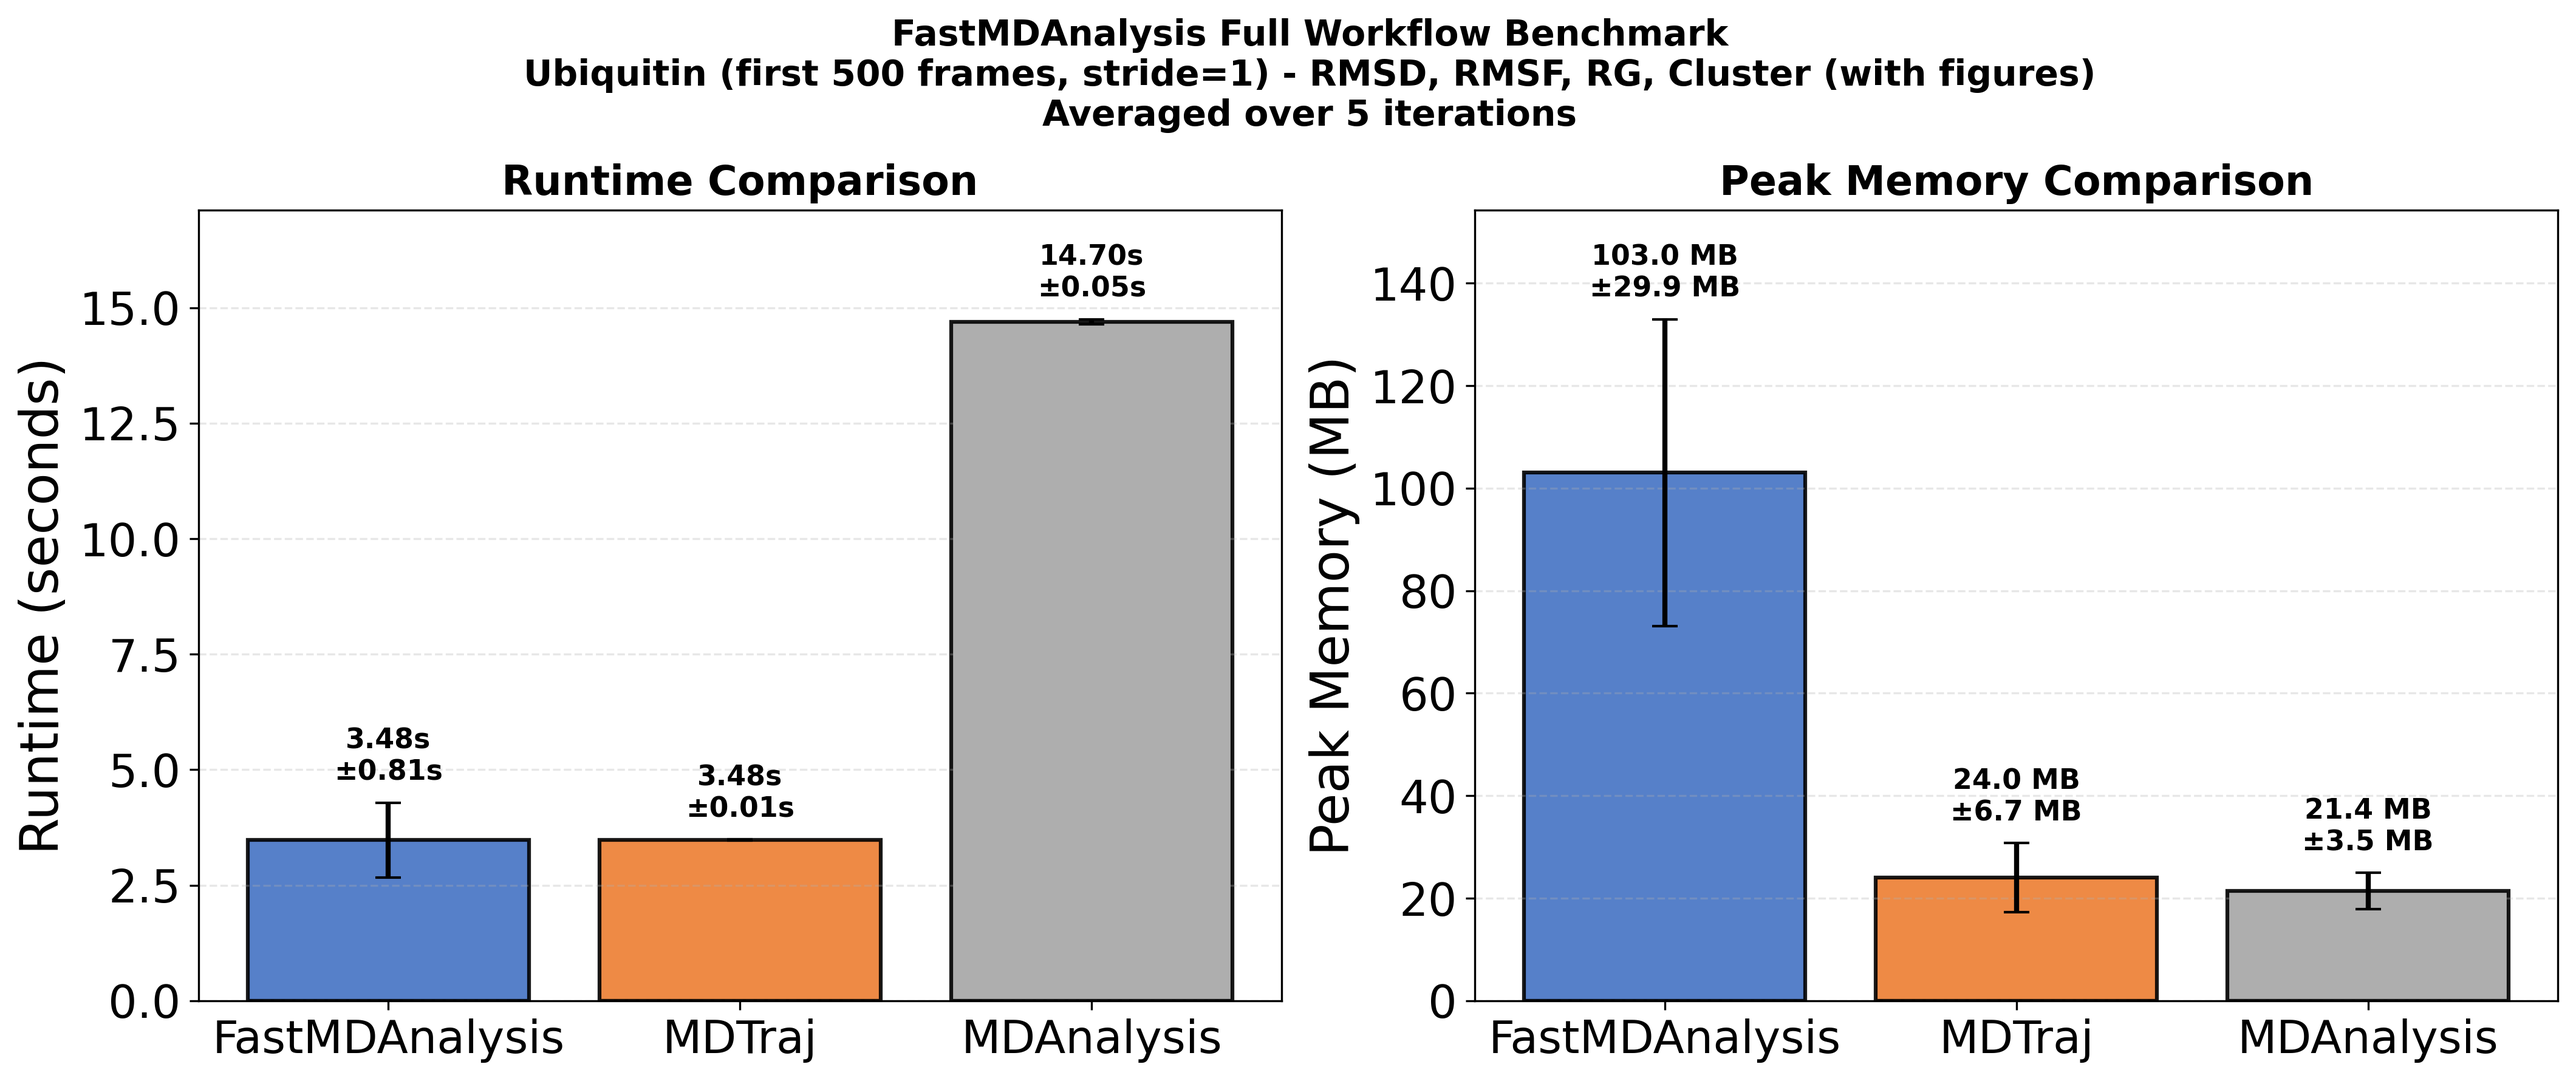
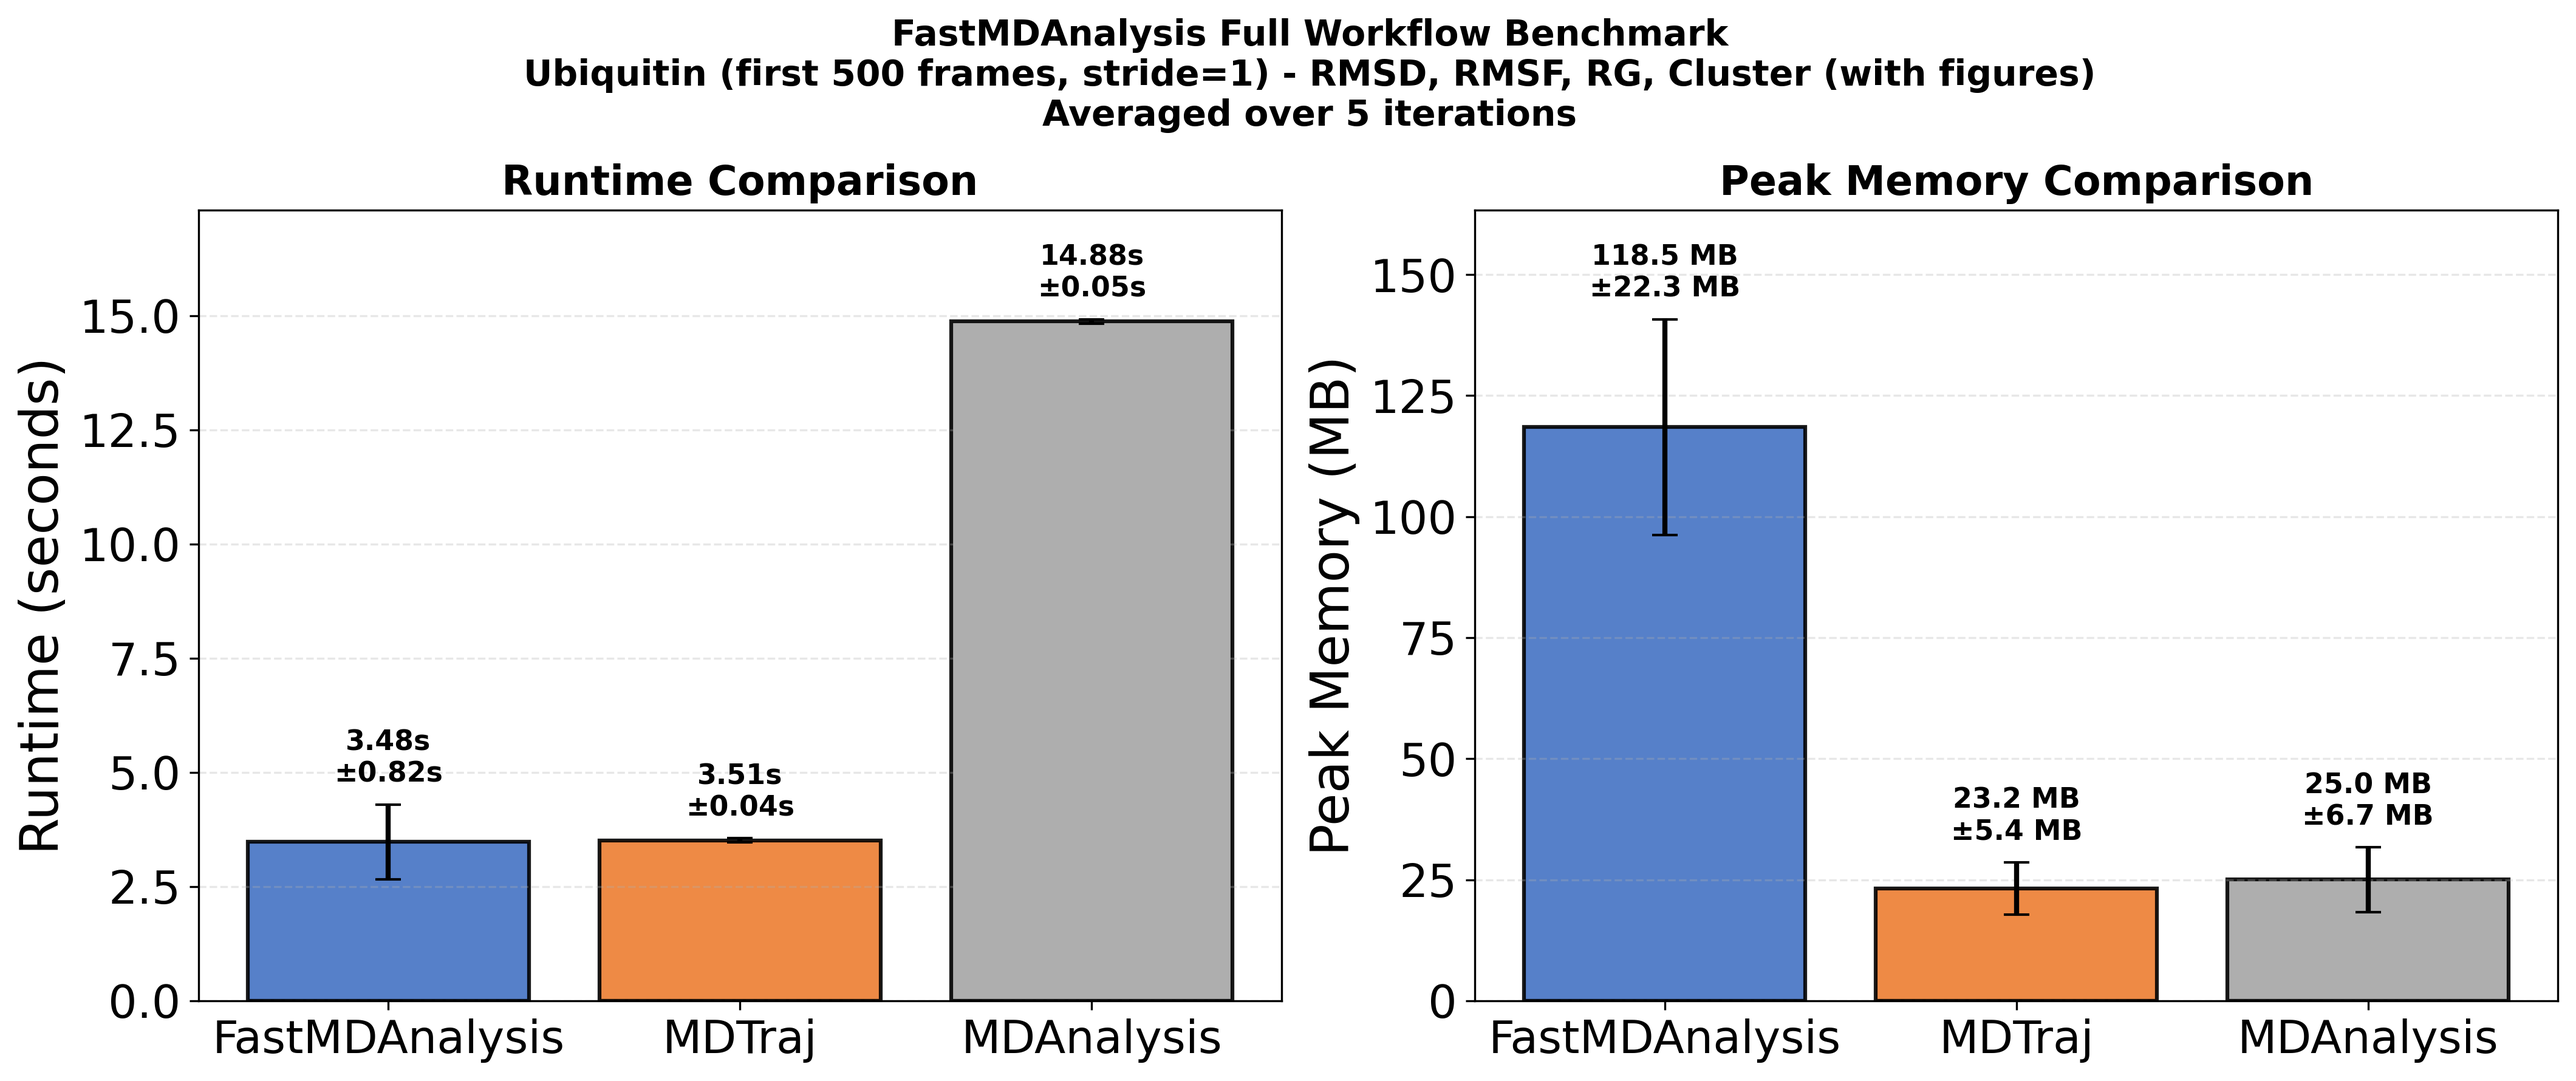
Updated Font Size

diff --git a/benchmark_full_workflow.py b/benchmark_full_workflow.py
@@ -192,8 +192,13 @@ def generate_loc_slide(loc_data):
 
     fig, ax = plt.subplots(figsize=(8, 6))
     bars = ax.bar(names, loc_values, color=colors, edgecolor='black', linewidth=1.5)
-    ax.set_ylabel('Effective LOC (non-blank/non-comment)', fontsize=14)
-    ax.set_title('Lines of Code Required Per Workflow', fontsize=16, fontweight='bold')
+    label_font = 14 * AXIS_FONT_SCALE
+    title_font = 16
+    tick_font = 12 * AXIS_FONT_SCALE
+
+    ax.set_ylabel('Effective LOC (non-blank/non-comment)', fontsize=label_font)
+    ax.set_title('Lines of Code Required Per Workflow', fontsize=title_font, fontweight='bold')
+    ax.tick_params(axis='both', which='major', labelsize=tick_font)
     ax.grid(axis='y', alpha=0.3, linestyle='--')
 
     if loc_values:
@@ -205,8 +210,16 @@ def generate_loc_slide(loc_data):
     ax.set_ylim(0, top + pad * 4)
 
     for bar, loc in zip(bars, loc_values):
-        ax.text(bar.get_x() + bar.get_width() / 2.0, bar.get_height() + pad,
-                f'{loc} LOC', ha='center', va='bottom', fontsize=12, fontweight='bold')
+        ax.text(
+            bar.get_x() + bar.get_width() / 2.0,
+            bar.get_height() + pad,
+            f'{loc} LOC',
+            ha='center',
+            va='bottom',
+            fontsize=12 * AXIS_FONT_SCALE,
+            fontweight='bold',
+            zorder=5,
+        )
 
     plt.tight_layout()
     output_file = 'benchmark_loc_slide.png'

diff --git a/BENCHMARK.md b/BENCHMARK.md
@@ -62,11 +62,11 @@ python benchmark_with_visualization.py
 
 | Library | Runtime (avg) | Std Dev | Memory (avg) | Std Dev |
 |---------|---------------|---------|--------------|---------|
-| **FastMDAnalysis** | 3.48 s | ± 0.81 s | 103.0 MB | ± 29.9 MB |
-| **MDTraj** | 3.48 s | ± 0.01 s | 24.0 MB | ± 6.7 MB |
-| **MDAnalysis** | 14.70 s | ± 0.05 s | 21.4 MB | ± 3.5 MB |
+| **FastMDAnalysis** | 3.48 s | ± 0.82 s | 118.5 MB | ± 22.3 MB |
+| **MDTraj** | 3.51 s | ± 0.04 s | 23.2 MB | ± 5.4 MB |
+| **MDAnalysis** | 14.88 s | ± 0.05 s | 25.0 MB | ± 6.7 MB |
 
-**FastMDA/MDTraj runtime ratio: 1.00×** – FastMDA now matches the hand-tuned MDTraj workflow on the trimmed 500-frame Ubiquitin workload while still handling figure generation automatically. Peak memory sits at **4.29×** the MDTraj footprint because FastMDA keeps per-analysis intermediates available so each figure can be emitted in a single pass.
+**FastMDA/MDTraj runtime ratio: 0.99×** – FastMDA now lands within about 1 % of the hand-tuned MDTraj workflow on the trimmed 500-frame Ubiquitin workload while still handling figure generation automatically. Peak memory sits at **5.10×** the MDTraj footprint because FastMDA keeps per-analysis intermediates available so each figure can be emitted in a single pass.
 
 ### Lines of Code Benchmark (Workflow Implementations)
 
